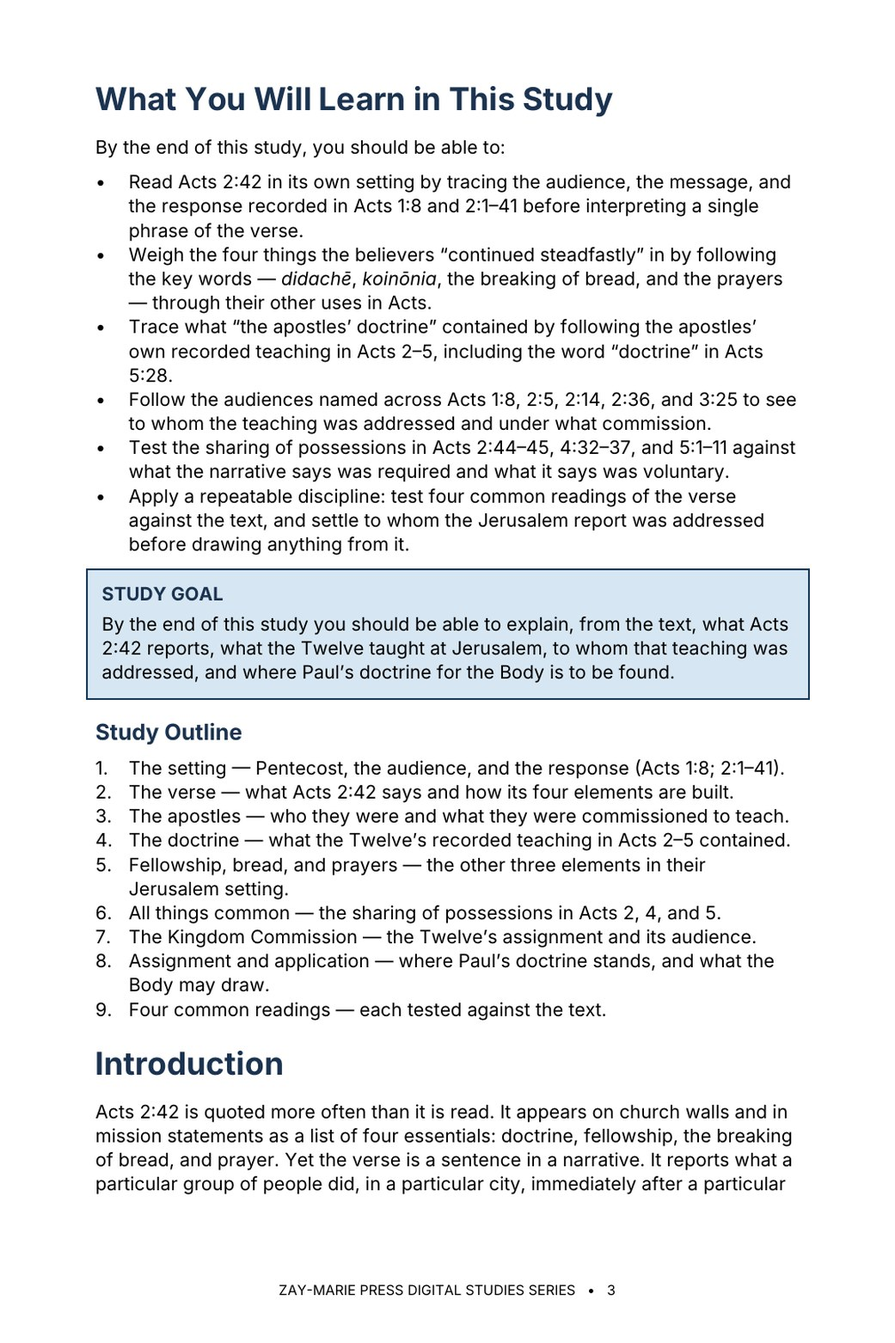
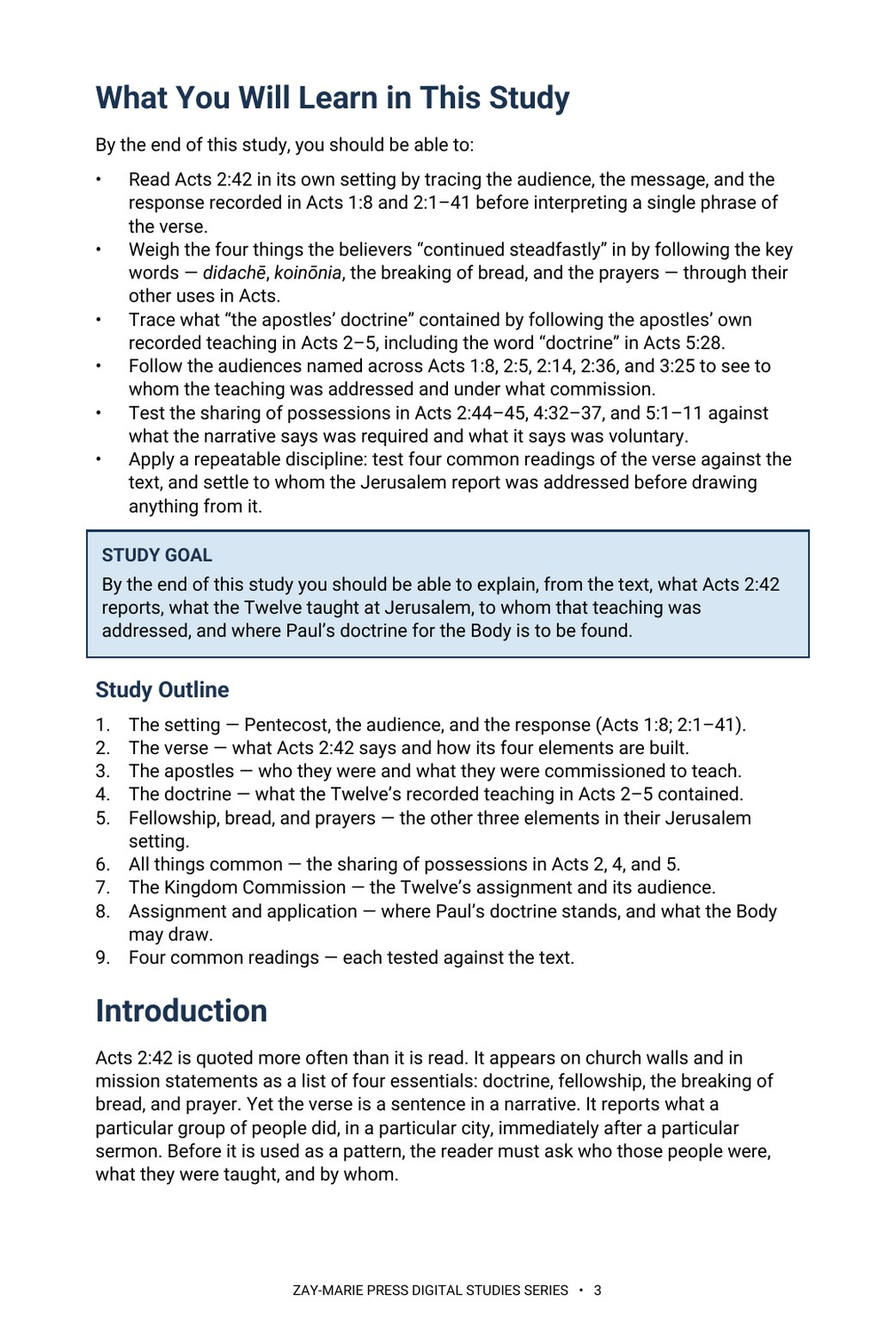
Study 65: correct typeface to Roboto, 16 pages; previews and trackers updated
Claude-Session: https://claude.ai/code/session_01HC7bs9KYP2scp4hCL6DkTp

Changed region(s): [[0.0922, 0.0615, 0.9222, 0.8912], [0.3074, 0.9526, 0.6455, 0.9834]]

diff --git a/study-65-acts-2-42.html b/study-65-acts-2-42.html
@@ -1,13 +1,13 @@
 <!doctype html>
-<html lang="en"><head><meta charset="utf-8"><meta name="viewport" content="width=device-width,initial-scale=1"><title>Acts 2:42 | Zay-Marie Press</title><meta name="description" content="Study 65 examines Acts 2:42 — what the Twelve taught at Jerusalem, what the converts continued in, and to whom the apostles’ doctrine belonged — and keeps it distinct from Paul’s doctrine for the Body. Preview the 17-page digital study."><link rel="stylesheet" href="styles.css?v=20260921-4"><link rel="icon" type="image/png" href="assets/zay-marie-press-favicon.png"><style>
+<html lang="en"><head><meta charset="utf-8"><meta name="viewport" content="width=device-width,initial-scale=1"><title>Acts 2:42 | Zay-Marie Press</title><meta name="description" content="Study 65 examines Acts 2:42 — what the Twelve taught at Jerusalem, what the converts continued in, and to whom the apostles’ doctrine belonged — and keeps it distinct from Paul’s doctrine for the Body. Preview the 16-page digital study."><link rel="stylesheet" href="styles.css?v=20260921-4"><link rel="icon" type="image/png" href="assets/zay-marie-press-favicon.png"><style>
 .study-detail-page{background:#fff;color:#252525}.detail-hero{background:linear-gradient(135deg,#f8f5ec,#e3ece2);padding:58px 0}.detail-hero-grid{display:grid;grid-template-columns:minmax(250px,.72fr) minmax(0,1.28fr);gap:58px;align-items:center}.detail-cover{max-width:390px;margin:auto}.detail-cover img{display:block;width:100%;height:auto;box-shadow:0 14px 36px rgba(8,45,69,.18)}.detail-hero h1{font-size:clamp(2.7rem,5vw,4.7rem);line-height:1.02;margin:8px 0 10px;color:#143823}.detail-subtitle{font-family:Georgia,serif;font-size:1.35rem;font-weight:700;color:#082d45;margin:0 0 7px}.detail-kicker{font-family:Georgia,serif;font-style:italic;font-size:1.05rem;color:#4a4a44;margin:0 0 22px}.detail-copy{font-size:1.08rem;line-height:1.65;max-width:760px}.detail-buyline{display:flex;align-items:center;gap:18px;flex-wrap:wrap;margin-top:25px}.detail-price{font-family:Georgia,serif;font-size:2rem;font-weight:700;color:#143823}.detail-format,.preview-card .page-no{font-family:Arial,sans-serif;font-size:.76rem;font-weight:700;letter-spacing:.1em;text-transform:uppercase;color:#176b3a}.detail-button{display:inline-block;background:#176b3a;color:#fff;padding:13px 22px;font-family:Arial,sans-serif;font-size:.8rem;font-weight:700;letter-spacing:.07em;text-transform:uppercase}.detail-button.pending{opacity:.72;cursor:default}.detail-section{padding:66px 0}.detail-section.soft{background:#f6f7f2}.detail-section.cream{background:#faf8f2}.detail-section h2{color:#143823;margin:6px 0 18px;font-size:clamp(2rem,3.4vw,3rem)}.detail-section .lead{max-width:920px;font-size:1.1rem;line-height:1.62}.study-distinction{max-width:920px;margin-top:28px;margin-bottom:28px;padding:26px 28px;background:#fff;border:1px solid #d8d1bf;border-left:4px solid #b8871c}.study-distinction h3{margin:0 0 10px;color:#143823}.study-distinction p{margin:0 0 14px;line-height:1.62}.study-distinction a{font-family:Arial,sans-serif;font-weight:700;color:#176b3a;text-decoration:none}.study-points{display:grid;grid-template-columns:repeat(3,1fr);gap:18px;margin-top:28px;margin-bottom:28px}.study-point,.scripture-card,.preview-card,.include-item{background:#fff;border:1px solid var(--line);text-align:left}.study-point{border-top:3px solid #176b3a;padding:22px}.study-point h3{color:#143823;margin:0 0 8px;font-size:1.2rem}.study-point p,.scripture-card p,.preview-card p,.include-item p{margin:0;line-height:1.55}.scripture-grid{display:grid;grid-template-columns:repeat(4,1fr);gap:14px;margin-top:24px;margin-bottom:24px}.scripture-card{padding:22px 20px;color:#143823}.scripture-card h3{margin:0 0 9px;font-family:Georgia,serif;font-size:1rem;line-height:1.35}.scripture-card p{font-size:.94rem;color:#45453f}.excerpt{max-width:900px;margin:28px auto;border-left:4px solid #b8871c;padding:10px 0 10px 28px}.excerpt blockquote{font-family:Georgia,serif;font-size:clamp(1.45rem,2.5vw,2rem);line-height:1.45;color:#143823;margin:0 0 16px}.excerpt p{line-height:1.6;margin:0}.preview-grid{display:grid;grid-template-columns:repeat(2,1fr);gap:20px;margin-top:28px;margin-bottom:28px}.preview-card{padding:18px;min-height:210px;box-shadow:0 7px 20px rgba(20,40,25,.05)}.preview-image-link{display:block;margin:0 0 18px}.preview-image-link img{display:block;width:100%;height:auto;border:1px solid #d8d1bf;box-shadow:0 8px 22px rgba(20,40,25,.1);transition:transform .18s ease,box-shadow .18s ease}.preview-image-link:hover img{transform:translateY(-2px);box-shadow:0 11px 28px rgba(20,40,25,.16)}.preview-card h3{color:#143823;margin:8px 0 10px}.preview-instruction{margin:10px 0 0;font-family:Arial,sans-serif;font-size:.78rem;letter-spacing:.04em;color:#5b5b55}.includes-grid{display:grid;grid-template-columns:repeat(4,1fr);gap:14px;margin-top:26px}.include-item{padding:22px 20px;color:#143823}.include-item h3{margin:0 0 9px;font-family:Arial,sans-serif;font-size:.86rem;line-height:1.35;letter-spacing:.02em}.include-item p{font-size:.94rem;color:#45453f}.final-buy{background:#082d45;color:#fff;border-top:4px solid #b8871c;padding:42px 48px;display:grid;grid-template-columns:1fr auto;gap:36px;align-items:center}.final-buy .eyebrow,.final-buy h2,.final-buy .detail-price{color:#fff}.final-buy h2{margin:7px 0 6px}.final-buy p{margin:0}.final-offer{text-align:center}.back-link{display:inline-block;margin-top:18px;color:#143823;font-family:Arial,sans-serif;font-weight:700;text-decoration:none}.preview-lightbox{position:fixed;inset:0;z-index:10000;display:none;align-items:flex-start;justify-content:center;background:rgba(8,22,16,.88);padding:24px;overflow:auto}.preview-lightbox.open{display:flex}.preview-lightbox img{display:block;width:auto;height:auto;max-width:none;box-shadow:0 18px 55px rgba(0,0,0,.4);background:#fff}.preview-lightbox-close{position:fixed;top:18px;right:24px;z-index:10001;width:46px;height:46px;border:1px solid rgba(255,255,255,.65);border-radius:50%;background:rgba(0,0,0,.55);color:#fff;font:32px/1 Arial,sans-serif;cursor:pointer}@media(max-width:900px){.detail-hero-grid{grid-template-columns:1fr;gap:34px}.detail-cover{max-width:330px}.study-points{grid-template-columns:repeat(2,1fr)}.scripture-grid,.includes-grid{grid-template-columns:repeat(2,1fr)}.preview-grid,.final-buy{grid-template-columns:1fr}.final-offer{text-align:left}}@media(max-width:560px){.detail-hero{padding:42px 0}.detail-section{padding:50px 0}.study-points,.scripture-grid,.includes-grid{grid-template-columns:1fr}.final-buy{padding:32px 24px}.detail-buyline{align-items:flex-start;flex-direction:column;gap:8px}.preview-lightbox{padding:58px 10px 24px}.preview-lightbox img{width:100%;max-width:100%;height:auto}} .detail-hero h1{font-size:clamp(2.1rem,4.2vw,3.7rem);line-height:1.08}</style></head><body class="study-detail-page">
-<header class="site-header"><div class="wrap nav"><a class="logo" href="index.html" aria-label="Zay-Marie Press home"><img src="assets/zay-marie-press-logo-hq.png" alt="Zay-Marie Press" width="420" height="238"></a><button class="menu-toggle" type="button" aria-expanded="false" aria-controls="primary-nav">MENU</button><nav aria-label="Primary navigation" class="primary-nav" id="primary-nav"><a href="index.html">HOME</a><a href="books.html">BOOKS</a><a href="series.html">SERIES</a><a class="active" aria-current="page" href="digital-studies.html">DIGITAL STUDIES</a><a href="biblical-hermeneutics-course.html">COURSE</a><a href="about.html">ABOUT</a><a href="resources.html">RESOURCES</a><a href="contact.html">CONTACT</a></nav></div></header><main><section class="detail-hero"><div class="wrap detail-hero-grid"><div class="detail-cover"><picture><source srcset="assets/study-65-cover.webp" type="image/webp"><img src="assets/study-65-cover.jpg" alt="Acts 2:42 cover"></picture></div><div><div class="eyebrow">STUDY 65 · DIGITAL STUDY</div><h1>Acts 2:42</h1><p class="detail-subtitle">The Apostles’ Doctrine</p><p class="detail-kicker">What did the Twelve teach at Jerusalem — and to whom did that teaching belong?</p><p class="detail-copy">Acts 2:42 is quoted as a list of four essentials: doctrine, fellowship, the breaking of bread, and prayer. Yet the verse is a sentence in a narrative, reporting what particular people did in a particular city immediately after a particular sermon.</p><p class="detail-copy">This study begins where Luke does: with the commission of Acts 1:8, Peter’s sermon to “all the house of Israel,” and the response. It weighs the four elements of the verse, traces what the apostles actually taught in Acts 2–5, tests the sharing of possessions against Acts 5:4, and only then asks where Paul’s doctrine for the Body stands, holding to one order throughout: meaning first, assignment second, application third.</p><div class="detail-buyline"><span class="detail-price">$5.99</span><span class="detail-format">Digital PDF · 17 Pages</span><span class="detail-button pending" aria-disabled="true">Checkout Coming Soon</span></div></div></div></section>
+<header class="site-header"><div class="wrap nav"><a class="logo" href="index.html" aria-label="Zay-Marie Press home"><img src="assets/zay-marie-press-logo-hq.png" alt="Zay-Marie Press" width="420" height="238"></a><button class="menu-toggle" type="button" aria-expanded="false" aria-controls="primary-nav">MENU</button><nav aria-label="Primary navigation" class="primary-nav" id="primary-nav"><a href="index.html">HOME</a><a href="books.html">BOOKS</a><a href="series.html">SERIES</a><a class="active" aria-current="page" href="digital-studies.html">DIGITAL STUDIES</a><a href="biblical-hermeneutics-course.html">COURSE</a><a href="about.html">ABOUT</a><a href="resources.html">RESOURCES</a><a href="contact.html">CONTACT</a></nav></div></header><main><section class="detail-hero"><div class="wrap detail-hero-grid"><div class="detail-cover"><picture><source srcset="assets/study-65-cover.webp" type="image/webp"><img src="assets/study-65-cover.jpg" alt="Acts 2:42 cover"></picture></div><div><div class="eyebrow">STUDY 65 · DIGITAL STUDY</div><h1>Acts 2:42</h1><p class="detail-subtitle">The Apostles’ Doctrine</p><p class="detail-kicker">What did the Twelve teach at Jerusalem — and to whom did that teaching belong?</p><p class="detail-copy">Acts 2:42 is quoted as a list of four essentials: doctrine, fellowship, the breaking of bread, and prayer. Yet the verse is a sentence in a narrative, reporting what particular people did in a particular city immediately after a particular sermon.</p><p class="detail-copy">This study begins where Luke does: with the commission of Acts 1:8, Peter’s sermon to “all the house of Israel,” and the response. It weighs the four elements of the verse, traces what the apostles actually taught in Acts 2–5, tests the sharing of possessions against Acts 5:4, and only then asks where Paul’s doctrine for the Body stands, holding to one order throughout: meaning first, assignment second, application third.</p><div class="detail-buyline"><span class="detail-price">$5.99</span><span class="detail-format">Digital PDF · 16 Pages</span><span class="detail-button pending" aria-disabled="true">Checkout Coming Soon</span></div></div></div></section>
 <section class="detail-section"><div class="wrap"><div class="eyebrow">ABOUT THIS STUDY</div><h2>Read the Verse in Order: Meaning, Assignment, Application</h2><p class="lead">You will read Acts 2:42 as Luke wrote it: after a commission to Israel, a sermon to “all the house of Israel,” and a response of about three thousand. You will weigh the four things the converts continued in, follow the word “doctrine” to Acts 5:28, and trace what the apostles’ recorded teaching in Acts 2–5 contained. You will test the sharing of possessions against the narrative’s own statements, then set the Twelve’s doctrine beside Paul’s before drawing any application.</p><p class="lead">Readers who already own Study 20 (Understanding Acts 2:38), Study 38 (Why Acts Is Not a Universal Experience Manual), or Study 18 (Peter and Paul: Distinct Apostolic Commissions) will recognize adjoining ground. Study 20 interprets Peter’s appeal and the baptism he commanded; this study begins after that appeal, with what the converts did next. Study 38 sets out the method for deciding when an Acts event becomes a rule; this study applies a method of that kind to a single verse and does not re-derive it. Study 18 compares the two commissions across the whole book; this study asks the narrower question of what the Twelve’s teaching consisted of. The question this study alone answers: what was “the apostles’ doctrine” of Acts 2:42, and to whom did it belong?</p>
 <div class="study-distinction"><h3>How These Studies Relate</h3><p>Study 65 reads one verse from Acts. The studies below supply the neighboring ground it deliberately does not repeat.</p><p><a href="study-20-understanding-acts-2-38.html">Study 20 — Understanding Acts 2:38</a> Read Peter’s appeal and baptism to Israel in its setting; Study 65 begins with what the converts did after that appeal.</p><p><a href="study-18-peter-and-paul-distinct-apostolic-commissions.html">Study 18 — Peter and Paul: Distinct Apostolic Commissions</a> Compare the two commissions across the book; Study 65 asks what the Twelve’s teaching contained.</p><p><a href="study-38-why-acts-is-not-a-universal-experience-manual.html">Study 38 — Why Acts Is Not a Universal Experience Manual</a> Use the wider test for when an Acts event becomes a present obligation; Study 65 applies a method of that kind to one verse.</p><p class="connection-guide-link"><a href="study-connections.html#study-65">Explore the full connection guide for Study 65 →</a></p></div>
 <div class="eyebrow">WHAT YOU’LL STUDY</div><h2>Trace the Verse Before You Conclude</h2><div class="study-points"><div class="study-point"><h3>The Setting of the Verse</h3><p>Read Acts 2:42 in its own setting by tracing the audience, the message, and the response recorded in Acts 1:8 and 2:1–41 before interpreting a single phrase of the verse.</p></div><div class="study-point"><h3>Four Things Continued In</h3><p>Weigh the four things the believers “continued steadfastly” in by following the key words — <em>didachē</em>, <em>koinōnia</em>, the breaking of bread, and the prayers — through their other uses in Acts.</p></div><div class="study-point"><h3>What the Doctrine Contained</h3><p>Trace what “the apostles’ doctrine” contained by following the apostles’ own recorded teaching in Acts 2–5, including the word “doctrine” in Acts 5:28.</p></div><div class="study-point"><h3>To Whom It Was Addressed</h3><p>Follow the audiences named across Acts 1:8, 2:5, 2:14, 2:36, and 3:25 to see to whom the teaching was addressed and under what commission.</p></div><div class="study-point"><h3>All Things Common</h3><p>Test the sharing of possessions in Acts 2:44–45, 4:32–37, and 5:1–11 against what the narrative says was required and what it says was voluntary.</p></div><div class="study-point"><h3>Testing Four Readings</h3><p>Apply a repeatable discipline for testing four common readings of the verse, and for receiving Scripture’s report of the Jerusalem church without transferring its assignment.</p></div></div>
 <div class="eyebrow">KEY SCRIPTURES</div><h2>Read the Word in Its Context</h2><div class="scripture-grid"><div class="scripture-card"><h3>Acts 1:6–8</h3><p>The Kingdom question and the commission that begins at Jerusalem.</p></div><div class="scripture-card"><h3>Acts 2:14–41</h3><p>Peter’s sermon to Judaea, Jerusalem, and Israel, and the response of the hearers.</p></div><div class="scripture-card"><h3>Acts 2:42–47</h3><p>The converts’ steadfast continuing, the signs, and the daily life at the temple and in houses.</p></div><div class="scripture-card"><h3>Acts 3:19–26</h3><p>Peter’s appeal at the temple and the covenant made with the fathers.</p></div><div class="scripture-card"><h3>Acts 4:32–5:11</h3><p>The sharing of possessions, Barnabas, and Peter’s word about the property.</p></div><div class="scripture-card"><h3>Acts 5:26–32</h3><p>The council’s charge of filling Jerusalem with the apostles’ doctrine, and the apostles’ answer.</p></div><div class="scripture-card"><h3>Galatians 2:7–9</h3><p>Paul’s account of the gospel of the circumcision and the gospel of the uncircumcision.</p></div><div class="scripture-card"><h3>Ephesians 3:1–9</h3><p>Paul’s stewardship of the mystery, revealed to him.</p></div></div>
 <div class="eyebrow">FROM THE STUDY</div><h2>Narrative, Not Mandate</h2><div class="excerpt"><blockquote>A verb in the past tense reports what people did.</blockquote><p>It becomes an obligation for another group only when Scripture itself assigns it to that group. The verse is read as a report first.</p></div>
 <div class="eyebrow">A LOOK INSIDE</div><h2>Preview the Study Before You Purchase</h2><p class="preview-instruction">Click any page to enlarge it for reading.</p><div class="preview-grid"><div class="preview-card"><a class="preview-image-link" data-preview-lightbox href="assets/study-65-page-2.jpg"><img src="assets/study-65-page-2.jpg" alt="Study 65 table of contents"></a><div class="page-no">Interior Page 2</div><h3>Table of Contents</h3><p>See the full structure and the passages examined.</p></div><div class="preview-card"><a class="preview-image-link" data-preview-lightbox href="assets/study-65-page-3.jpg"><img src="assets/study-65-page-3.jpg" alt="Study 65 learning outcomes"></a><div class="page-no">Interior Page 3</div><h3>What You Will Learn</h3><p>See the study’s scope and reading procedure.</p></div><div class="preview-card"><a class="preview-image-link" data-preview-lightbox href="assets/study-65-page-5.jpg"><img src="assets/study-65-page-5.jpg" alt="Study 65 the setting of Pentecost"></a><div class="page-no">Interior Page 5</div><h3>The Setting: Pentecost and the Response</h3><p>Read the commission, the audience, and the response before the verse itself.</p></div></div>
-<div class="eyebrow">WHAT’S INCLUDED</div><h2>A Focused Study of Acts 2:42</h2><div class="includes-grid"><div class="include-item"><h3>17-Page Digital PDF</h3><p>Approved cover and 16-page numbered interior.</p></div><div class="include-item"><h3>9 Teaching Sections</h3><p>A text-driven study from the setting of Pentecost to careful application.</p></div><div class="include-item"><h3>Callout Boxes</h3><p>Five callout boxes marking the study’s key working rules.</p></div><div class="include-item"><h3>Comparison Tables</h3><p>Setting markers, the four elements of the verse, the apostles’ recorded teaching, and four common readings.</p></div><div class="include-item"><h3>Scripture-Tracing Exercise</h3><p>Six guided traces through the passages the study relies on.</p></div><div class="include-item"><h3>Guided Further Study</h3><p>Five passage groups for deeper reading.</p></div><div class="include-item"><h3>Review Questions</h3><p>Eleven questions testing the study’s markers and method.</p></div><div class="include-item"><h3>Final Synthesis Exercise</h3><p>A written synthesis drawing the whole study together.</p></div></div>
-<div class="final-buy"><div><div class="eyebrow">STUDY 65 · DIGITAL STUDY</div><h2>Acts 2:42</h2><p>17-page digital PDF · For personal use</p></div><div class="final-offer"><div class="detail-price">$5.99</div><span class="detail-button pending" aria-disabled="true">Checkout Coming Soon</span></div></div><a class="back-link" href="digital-studies.html">← Back to All Digital Studies</a></div></section>
+<div class="eyebrow">WHAT’S INCLUDED</div><h2>A Focused Study of Acts 2:42</h2><div class="includes-grid"><div class="include-item"><h3>16-Page Digital PDF</h3><p>Approved cover and 15-page numbered interior.</p></div><div class="include-item"><h3>9 Teaching Sections</h3><p>A text-driven study from the setting of Pentecost to careful application.</p></div><div class="include-item"><h3>Callout Boxes</h3><p>Five callout boxes marking the study’s key working rules.</p></div><div class="include-item"><h3>Comparison Tables</h3><p>Setting markers, the four elements of the verse, the apostles’ recorded teaching, and four common readings.</p></div><div class="include-item"><h3>Scripture-Tracing Exercise</h3><p>Six guided traces through the passages the study relies on.</p></div><div class="include-item"><h3>Guided Further Study</h3><p>Five passage groups for deeper reading.</p></div><div class="include-item"><h3>Review Questions</h3><p>Eleven questions testing the study’s markers and method.</p></div><div class="include-item"><h3>Final Synthesis Exercise</h3><p>A written synthesis drawing the whole study together.</p></div></div>
+<div class="final-buy"><div><div class="eyebrow">STUDY 65 · DIGITAL STUDY</div><h2>Acts 2:42</h2><p>16-page digital PDF · For personal use</p></div><div class="final-offer"><div class="detail-price">$5.99</div><span class="detail-button pending" aria-disabled="true">Checkout Coming Soon</span></div></div><a class="back-link" href="digital-studies.html">← Back to All Digital Studies</a></div></section>
 </main><div class="preview-lightbox" id="preview-lightbox" role="dialog" aria-modal="true" aria-label="Expanded study preview"><button class="preview-lightbox-close" type="button" aria-label="Close preview">×</button><img id="preview-lightbox-image" alt=""></div><footer class="site-footer"><div class="wrap footer-grid"><div class="footer-about"><h3>Zay-Marie Press</h3><p class="footer-tagline"><em>Where the Bible Means What It Says.</em></p><p>Zay-Marie Press is a Christian theological publisher dedicated to producing doctrinally precise, carefully structured biblical resources that equip pastors, teachers, and serious students with clarity, depth, and Scripture-anchored truth.</p><p><a href="https://zaymariepress.com">zaymariepress.com</a><br><a href="mailto:info@zaymariepress.com">info@zaymariepress.com</a></p></div><div class="footer-column"><h3>Explore</h3><div class="footer-links-stacked"><a href="books.html">Books</a><br><a href="series.html">Series</a><br><a href="biblical-hermeneutics-course.html">Course</a><br><a href="digital-studies.html">Digital Studies</a><br><a href="resources.html">Resources</a><br><a href="bible-book-summaries.html">Bible Book Summaries</a><br><a href="doctrinal-packets.html">Doctrinal Packets</a><br><a href="historical-drift.html">Historical Drift</a><br><a href="about.html">About</a><br><a href="contact.html">Contact</a></div></div><div class="footer-column"><h3>Reader Support</h3><div class="footer-links-stacked"><a href="reader-support.html#faq">FAQ</a><br><a href="reader-support.html#shipping-returns">Shipping &amp; Returns</a><br><a href="reader-support.html#digital-downloads">Digital Downloads</a><br><a href="reader-support.html#contact-support">Contact Support</a></div></div><div class="footer-column"><h3>Acts Overlap</h3><p><strong>Acts Overlap Theology Series</strong></p><p><em>Two Distinct Streams. One Overlap.</em></p><p><a href="series.html">Series Overview</a></p></div></div><div class="wrap footer-bottom">© 2026 Zay-Marie Press. All rights reserved.</div></footer><script src="site.js"></script><script>const lightbox=document.getElementById('preview-lightbox'),lightboxImage=document.getElementById('preview-lightbox-image'),closeLightbox=()=>{lightbox.classList.remove('open');lightboxImage.src='';};document.querySelectorAll('[data-preview-lightbox]').forEach(link=>link.addEventListener('click',event=>{event.preventDefault();lightboxImage.src=link.href;lightboxImage.alt=link.querySelector('img').alt;lightbox.classList.add('open');}));document.querySelector('.preview-lightbox-close').addEventListener('click',closeLightbox);lightbox.addEventListener('click',event=>{if(event.target===lightbox)closeLightbox();});document.addEventListener('keydown',event=>{if(event.key==='Escape')closeLightbox();});</script></body></html>

diff --git a/site.js b/site.js
@@ -62,7 +62,7 @@ const resourceModal=document.querySelector('#resource-modal'), resourceModalTitl
 if(resourceModal&&resourceModalTriggers.length){const closeResourceModal=()=>{resourceModal.hidden=true;document.body.classList.remove('resource-modal-open');lastResourceTrigger?.focus();};resourceModalTriggers.forEach(trigger=>trigger.addEventListener('click',()=>{lastResourceTrigger=trigger;if(resourceModalTitle)resourceModalTitle.textContent=trigger.dataset.title||'Resource';if(resourceModalDescription)resourceModalDescription.textContent=trigger.dataset.description||'';if(resourceModalLink){resourceModalLink.href=trigger.dataset.href||'#';resourceModalLink.textContent=trigger.dataset.linkText||'OPEN RESOURCE';}resourceModal.hidden=false;document.body.classList.add('resource-modal-open');resourceModalClose?.focus();}));resourceModalClose?.addEventListener('click',closeResourceModal);resourceModal.addEventListener('click',e=>{if(e.target===resourceModal)closeResourceModal();});document.addEventListener('keydown',e=>{if(e.key==='Escape'&&!resourceModal.hidden)closeResourceModal();});}
 
 /* Display the verified final-PDF page count at the primary purchase decision point. */
-const digitalStudyPageCounts={1:17,2:19,3:16,4:18,5:16,6:16,7:14,8:13,9:16,10:20,11:15,12:15,13:19,14:15,15:15,16:16,17:18,18:18,19:16,20:16,21:17,22:16,23:14,24:16,25:17,26:16,27:16,28:16,29:19,30:17,31:18,32:19,33:18,34:16,35:16,36:16,37:16,38:16,39:16,40:16,41:16,42:17,43:17,44:19,45:19,46:20,47:19,48:18,49:20,50:19,51:20,52:19,53:19,54:17,55:20,56:20,57:20,58:19,59:20,60:15,61:16,62:18,63:17,64:17,65:17,66:16,67:16,68:16,69:16,70:16,71:16};
+const digitalStudyPageCounts={1:17,2:19,3:16,4:18,5:16,6:16,7:14,8:13,9:16,10:20,11:15,12:15,13:19,14:15,15:15,16:16,17:18,18:18,19:16,20:16,21:17,22:16,23:14,24:16,25:17,26:16,27:16,28:16,29:19,30:17,31:18,32:19,33:18,34:16,35:16,36:16,37:16,38:16,39:16,40:16,41:16,42:17,43:17,44:19,45:19,46:20,47:19,48:18,49:20,50:19,51:20,52:19,53:19,54:17,55:20,56:20,57:20,58:19,59:20,60:15,61:16,62:18,63:17,64:17,65:16,66:16,67:16,68:16,69:16,70:16,71:16};
 const digitalStudyMatch=window.location.pathname.match(/\/study-(\d+)-/i);
 const digitalStudyFormat=document.querySelector('.detail-hero .detail-format');
 if(digitalStudyMatch&&digitalStudyFormat){const studyNumber=Number(digitalStudyMatch[1]),pageCount=digitalStudyPageCounts[studyNumber];if(pageCount)digitalStudyFormat.textContent=`Digital PDF · ${pageCount} Pages`;}

diff --git a/CLAUDE.md b/CLAUDE.md
@@ -23,7 +23,7 @@ These are kept in the repo at `controlling-documents/` and are the current versi
 - As of v1.50 (publisher directive, 2026-10-03), the **What You Will Learn in This Study** section is always bulleted, never set as running paragraphs, written into this file in the same pass (Master Standard Section 3 item 4, Section 6 structure line, Section 22): a list of bullet points, each describing one process, textual marker or interpretive discipline the reader will practice (Section 17 still governs what they may say); at most one short lead-in line may stand above the bullets (for example, “By the end of this study, you should be able to:”); the Study Goal callout and the Study Outline keep their own forms. It governs every new study and every study rebuilt or retrofitted from now on; earlier studies take it when reopened or when the publisher directs. In every study check (Step 1), report whether the section is bulleted. First applied to Study 43.
 **`controlling-documents/Digital_Studies_Relationship_Map_v1.39.md`** — records each study's distinct subject, its related studies, the eight priced six-study collections, the Paul's Missionary Journeys cross-reference map, and the five primary catalog categories (currently version 1.39, covers Studies 1–71; update it as new studies publish, bump the version number, rename the file to match, and log the change in its own version-history table — mirroring the Master Standard's `_vX.Y` filename convention). Check a proposed topic against it before recommending or writing a new study. (2026-09-28: the file was missing from this repo despite this note referencing it; replaced from the publisher's copy and bumped v1.15→v1.25 in the same pass. If this note ever again points to a version not present under `controlling-documents/`, ask the publisher for a copy rather than proceeding without the check.)
 - **`controlling-documents/Digital_Studies_Category_Standard_v1.1.md`** — FINAL and binding (publisher, 2026-10-01): the rules for the five primary catalog categories (Foundations, Israel & Prophecy, Body of Christ, Passages, Doctrinal Themes), the ordered decision procedure for new studies, the precedents, all 71 fixed assignments, and the cover-label form for each category. Read it before placing any card or cover label. Do not ask the publisher where a study belongs; apply the procedure and state the result. Only the publisher changes a ruling; then bump this Standard's version and filename, re-letter the cover, and update the Relationship Map.
-- **`controlling-documents/Doctrinal_Upgrade_Retrofit_Plan_v1.87.md`** — working tracker for retrofitting Studies 1–59 to the 2026-10-02 doctrinal upgrade (Framework/PAM v1.1, Master Standard v1.40, Rules 7–17): withdrawn-wording search keys, impact tiers, waves and the per-study method. Read it before continuing the retrofit in any session; update status, bump the version and rename the file as work proceeds.
+- **`controlling-documents/Doctrinal_Upgrade_Retrofit_Plan_v1.88.md`** — working tracker for retrofitting Studies 1–59 to the 2026-10-02 doctrinal upgrade (Framework/PAM v1.1, Master Standard v1.40, Rules 7–17): withdrawn-wording search keys, impact tiers, waves and the per-study method. Read it before continuing the retrofit in any session; update status, bump the version and rename the file as work proceeds.
 - **`controlling-documents/Doctrinal_Packet_Standard_v0.3.md`** — Doctrinal Packet Standard (DRAFT; §7 approved). Governs the separate Doctrinal Packets product strand (5-page interpretive PDFs per Bible book — a print-friendly cover as page 1 plus 4 content pages, $2.99, KJV, pilot: Genesis, live at `packet-genesis.html`, hub `doctrinal-packets.html`; site pages say "5 Pages", cover styles live in `packets.css`, Old Testament blue and New Testament soft pale green, hub listed in Bible order). **Preview rule (publisher directive, 2026-09-29, packets only):** previews show about one page's worth in two cropped views (top of page 1 through the anchor texts; the chart section) — never the exegesis, architecture, Mystery contrast, logic chain, outline, or closing. Master Standard §16/§17 still govern Digital Studies. Bump the version and rename the file as the Standard is finalized.
 - **`controlling-documents/Preview_Page_Spoiler_Retrofit_Audit_v1.4.md`** — working tracker for the Studies 1–60 preview-page conclusion-spoiler retrofit (see the section below). Read it before continuing that audit in any session; update its status fields and changelog, bump the version, and rename the file to match as the audit proceeds — same `_vX.Y` convention as the other controlling documents. As of v1.1, the website-side half was DONE: all 60 studies' "What You'll Study" text was judged against the rule (methodology documented in the file) and 22 points across 11 studies were rewritten and pushed; an unrelated Study 22 content bug (Study 21's content had leaked into it) was also found and fixed. As of v1.2, the publisher supplied Studies 1–60's interior production PDFs and the interior-PDF half was also surveyed (read-only): 10 studies (37, 41, 45, 47, 48, 49, 51, 52, 53, 54) were found to have at least one interior "What You Will Learn" violation, 50 studies were confirmed compliant, and the orphaned `assets/study-45-sanctification-under-grace.docx` (removed from the repo per the publisher in v1.0) was confirmed word-for-word identical to Study 45's actual production interior PDF content. As of v1.3, the publisher supplied editable DOCX sources for all 10 violating studies; all 15 violating points were rewritten and approved, delivered as corrected final PDFs, and — along the way — a second defect was found and fixed (Studies 47 and 48's source DOCX still had an unintegrated cover placeholder despite both being long-published live with real covers; fixed by inserting the existing approved cover art). The website's "What You Will Learn" preview image (`study-NN-page-3.jpg`) was regenerated from the corrected content for all 10 studies and pushed to `main` (commit `cea1859`), verified against a fresh clone. **The website side of this audit is now fully compliant for all 60 studies.** Outstanding: the publisher's purchasable interior PDF files themselves have corrected versions delivered, but distribution to existing purchasers was decided by the publisher on 2026-09-29: silent swap of the files behind the existing downloads, no reissue notice (recorded in the v1.4 changelog entry; the product files are not in this repo).
 

diff --git a/controlling-documents/Doctrinal_Upgrade_Retrofit_Plan_v1.88.md b/controlling-documents/Doctrinal_Upgrade_Retrofit_Plan_v1.88.md
@@ -180,3 +180,4 @@ Working tracker for correcting published studies to the Framework/PAM v1.1, Mast
 - v1.85 (2026-10-03): Study 63 rebuilt in Roboto at 10 pt on the current page from the publisher's Sep 28 PDF (no DOCX or approved FINAL supplied; text taken from the PDF word for word), 17 pages (cover plus 16; was 16). Changes: What You Will Learn set as bullets under one lead-in (the two-sentence intro and the closing line removed; bullet 6 reworded to a process line); six callouts reduced to five (Word Evidence, Not Word Alone became a run-in); 'controlling framework' to 'controlling questions'; Teaching Outline typed 1–8; lead-in lines kept with their tables; no KJV table added (not requested). Live previews re-rendered (2, 3, 5); page text 17 Pages / 17-page digital PDF.
 - v1.86 (2026-10-03): Study 64 rebuilt in Roboto at 10 pt on the current page from the publisher's Sep 28 PDF (no DOCX or approved FINAL supplied; text taken from the PDF word for word), 17 pages (cover plus 16; was 16). Changes: What You Will Learn set as bullets under one lead-in (the two-sentence intro and the closing line removed; bullet 6 reworded to a process line); eight callouts reduced to five (Setting Before Scene, Word Evidence and A Scene at the Threshold became run-ins); reader-facing wording ('the governing framework of this series' and 'Within this series’ framework … classified there' removed; 'controlling framework' to 'controlling questions'); the Sep 28 neutral stance on the Body's presence at the supper ('neither affirms nor denies') replaced with the standing ruling that the Body of Christ does not appear in Revelation's prophetic scenes (section 5.3 and the Conclusion); 'kekleimenoi' corrected to 'keklēmenoi'; Teaching Outline typed 1–8; lead-in lines kept with their tables; cover from the repo (ISRAEL, PROPHECY & COVENANTS); no KJV table added. The guest classification (those invited to witness the wife's union) remains the publisher's 2026-09-28 directive for this study. Live previews re-rendered (2, 3, 5); page text 17 Pages / 17-page digital PDF / 16-page numbered interior.
 - v1.87 (2026-10-03): Study 65 rebuilt in Roboto at 10 pt on the current page from the publisher's PDF (no DOCX or approved FINAL supplied; text taken from the PDF word for word), 17 pages (cover plus 16; was 16). Changes: What You Will Learn set as bullets under one lead-in (closing paragraph removed; bullet 6 reworded to a process line); eight callouts reduced to five (Setting Before Verse, The Word in Its Company and The Four in Their Place became run-in paragraphs, wording unchanged); Teaching Outline numerals changed to 1–8; split Four Common Readings table merged; reader-facing wording: the 7.1 "framework of this series" sentence and "controlling framework" replaced. No withdrawn doctrinal wording found. Previews 2, 3 and 5 re-rendered; site.js and page text updated.
+- v1.88 (2026-10-03): Study 65 correction. The v1.87 build was set in the wrong typeface by a fontconfig fault; rebuilt in Roboto (pdffonts confirms Roboto Regular, Bold and Italic only). Page count is 16 (cover plus 15), not 17; site.js, page text and previews 2, 3 and 5 updated. Content edits as logged in v1.87 are unchanged. Every later build is checked with pdffonts.

diff --git a/controlling-documents/Digital_Studies_PAM_Audit_v1.182.md b/controlling-documents/Digital_Studies_PAM_Audit_v1.182.md
@@ -411,3 +411,4 @@ Study 15 PDF not yet supplied. Typography: none of Studies 2, 3, 6, 8 is in EB G
 - v1.179 (2026-10-03): Study 63 rebuilt in Roboto at 10 pt, 17 pages (see Retrofit Plan v1.85).
 - v1.180 (2026-10-03): Study 64 rebuilt in Roboto at 10 pt, 17 pages; Body-absent-from-Revelation wording applied (see Retrofit Plan v1.86).
 - v1.181 (2026-10-03): Study 65 rebuilt in Roboto at 10 pt, 17 pages (see Retrofit Plan v1.87).
+- v1.182 (2026-10-03): Study 65 corrected to Roboto, 16 pages (see Retrofit Plan v1.88).
